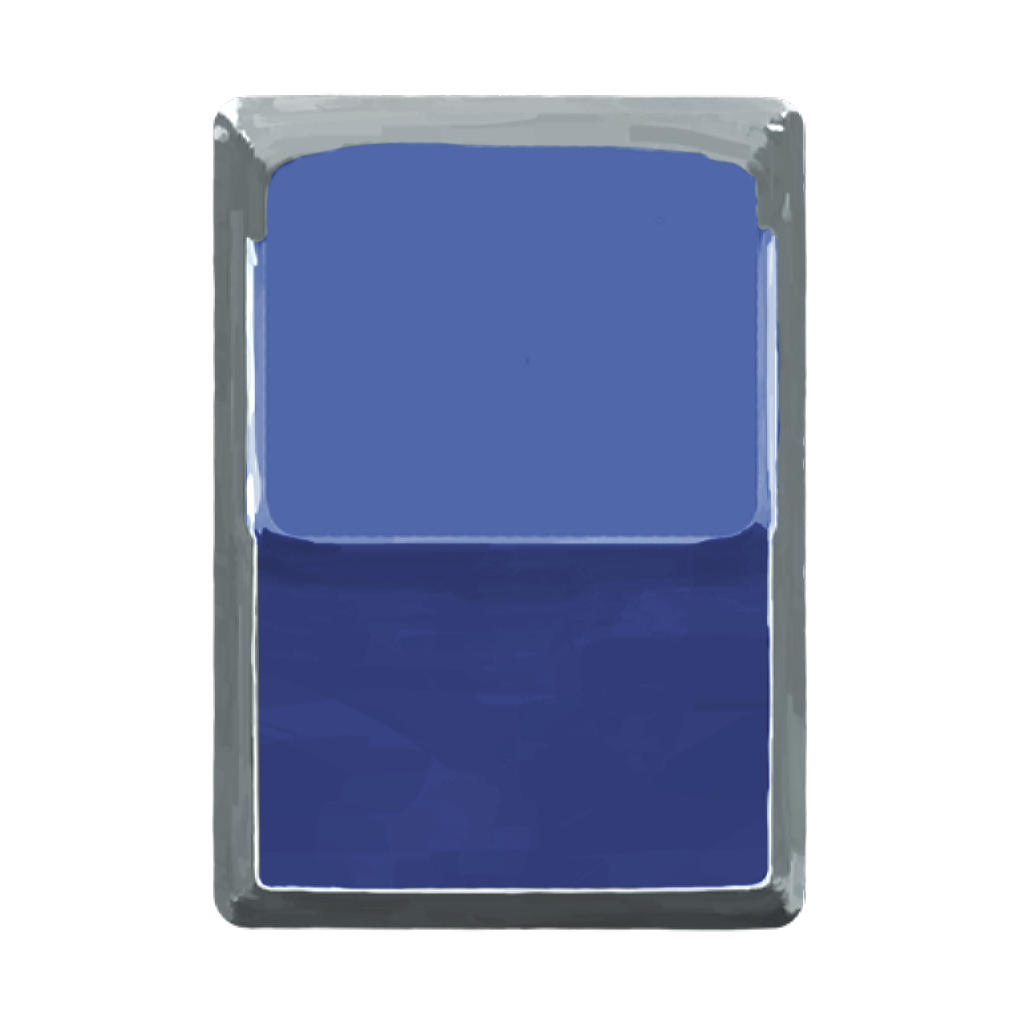
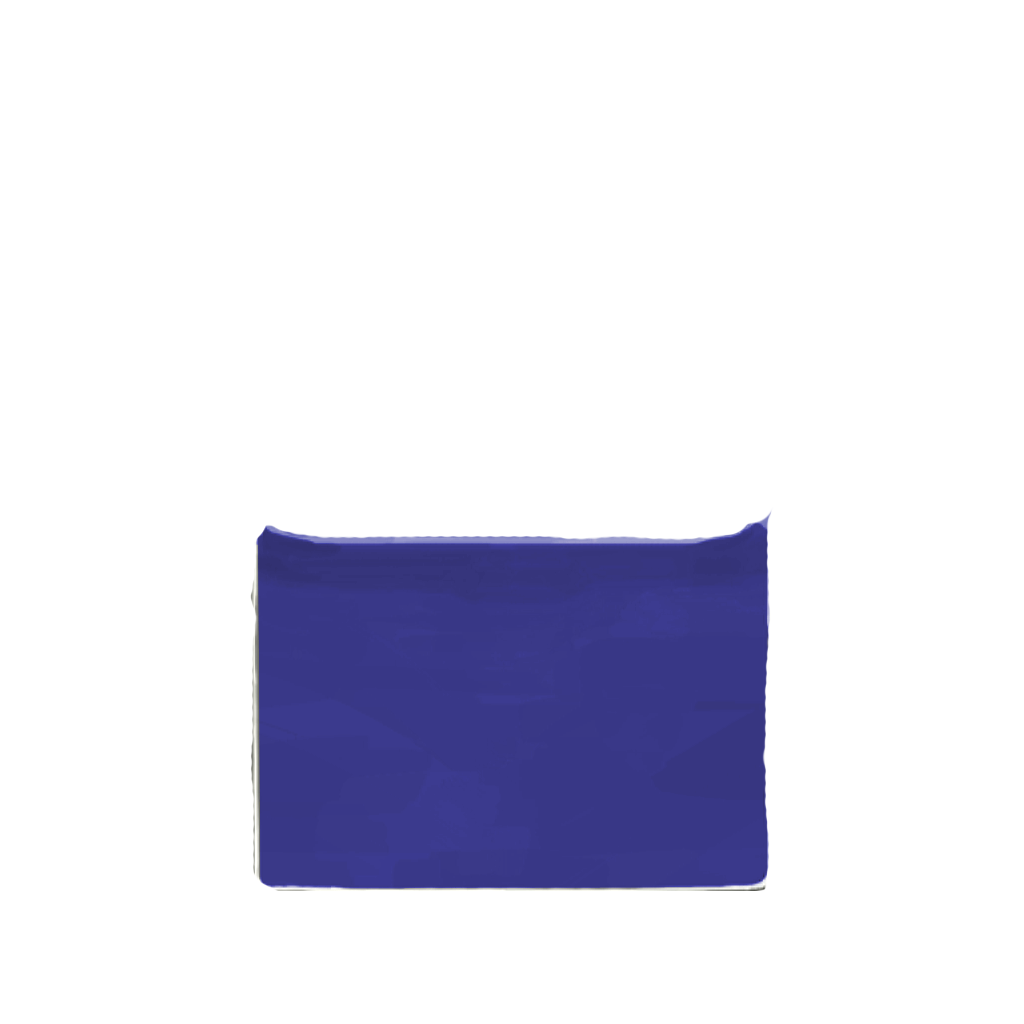
render cards patch

Changed region(s): [[0.1875, 0.0938, 0.8125, 0.9375]]

diff --git a/src/main/java/MisakaCode/patches/RenderMagneticCardBackgrounds.java b/src/main/java/MisakaCode/patches/RenderMagneticCardBackgrounds.java
@@ -1,0 +1,108 @@
+package MisakaCode.patches;
+
+import MisakaCode.MisakaModInitializer;
+import MisakaCode.tools.TextureLoader;
+import basemod.ReflectionHacks;
+import com.badlogic.gdx.graphics.Color;
+import com.badlogic.gdx.graphics.Texture;
+import com.badlogic.gdx.graphics.g2d.SpriteBatch;
+import com.evacipated.cardcrawl.modthespire.lib.SpirePatch;
+import com.megacrit.cardcrawl.cards.AbstractCard;
+import com.megacrit.cardcrawl.core.Settings;
+import com.megacrit.cardcrawl.screens.SingleCardViewPopup;
+
+public class RenderMagneticCardBackgrounds {
+    @SpirePatch(
+            clz= AbstractCard.class,
+            method="renderCardBg"
+    )
+    public static class SmallCardBackgroundRender {
+        public static void Postfix(AbstractCard __instance, SpriteBatch sb, float x, float y) {
+            Color reflectedColor = (Color) ReflectionHacks.getPrivate(__instance, AbstractCard.class, "renderColor");
+            boolean isPositive = MisakaModInitializer.isPositive(__instance);
+            boolean isNegative = MisakaModInitializer.isNegative(__instance);
+            if (isPositive) {
+                switch(__instance.type) {
+                    case ATTACK:
+                        Texture positiveAttack = TextureLoader.getTexture("MisakaResources/images/512/attack_red.png");
+                        sb.setColor(reflectedColor);
+                        sb.draw(positiveAttack, x, y, 256f, 256f, 512f, 512f, __instance.drawScale * Settings.scale, __instance.drawScale * Settings.scale, __instance.angle, 0, 0, 512, 512, false, false);
+                        break;
+                    case SKILL: case STATUS: case CURSE:
+                        Texture positiveSkill = TextureLoader.getTexture("MisakaResources/images/512/skill_red.png");
+                        sb.setColor(reflectedColor);
+                        sb.draw(positiveSkill, x, y, 256f, 256f, 512f, 512f, __instance.drawScale * Settings.scale, __instance.drawScale * Settings.scale, __instance.angle, 0, 0, 512, 512, false, false);
+                        break;
+                    case POWER:
+                        Texture positivePower = TextureLoader.getTexture("MisakaResources/images/512/power_red.png");
+                        sb.setColor(reflectedColor);
+                        sb.draw(positivePower, x, y, 256f, 256f, 512f, 512f, __instance.drawScale * Settings.scale, __instance.drawScale * Settings.scale, __instance.angle, 0, 0, 512, 512, false, false);
+                        break;
+                }
+            }
+            if (isNegative) {
+                switch(__instance.type) {
+                    case ATTACK:
+                        Texture negativeAttack = TextureLoader.getTexture("MisakaResources/images/512/attack_blue.png");
+                        sb.setColor(reflectedColor);
+                        sb.draw(negativeAttack, x, y, 256f, 256f, 512f, 512f, __instance.drawScale * Settings.scale, __instance.drawScale * Settings.scale, __instance.angle, 0, 0, 512, 512, false, false);
+                        break;
+                    case SKILL: case STATUS: case CURSE:
+                        Texture negativeSkill = TextureLoader.getTexture("MisakaResources/images/512/skill_blue.png");
+                        sb.setColor(reflectedColor);
+                        sb.draw(negativeSkill, x, y, 256f, 256f, 512f, 512f, __instance.drawScale * Settings.scale, __instance.drawScale * Settings.scale, __instance.angle, 0, 0, 512, 512, false, false);
+                        break;
+                    case POWER:
+                        Texture negativePower = TextureLoader.getTexture("MisakaResources/images/512/power_blue.png");
+                        sb.setColor(reflectedColor);
+                        sb.draw(negativePower, x, y, 256f, 256f, 512f, 512f, __instance.drawScale * Settings.scale, __instance.drawScale * Settings.scale, __instance.angle, 0, 0, 512, 512, false, false);
+                        break;
+                }
+            }
+        }
+    }
+
+    @SpirePatch(
+            clz = SingleCardViewPopup.class,
+            method = "renderCardBack"
+    )
+    public static class RenderBigCardBackground {
+        public static void Postfix(SingleCardViewPopup __instance, SpriteBatch sb) {
+            AbstractCard c = (AbstractCard) ReflectionHacks.getPrivate(__instance, SingleCardViewPopup.class, "card");
+            boolean isPositive = MisakaModInitializer.isPositive(c);
+            boolean isNegative = MisakaModInitializer.isNegative(c);
+            if (isPositive) {
+                switch(c.type) {
+                    case ATTACK:
+                        Texture positiveAttack = TextureLoader.getTexture("MisakaResources/images/1024/attack_red.png");
+                        sb.draw(positiveAttack, Settings.WIDTH / 2.0f - 512.0f, Settings.HEIGHT / 2.0f - 512.0f, 512.0f, 512.0f, 1024.0f, 1024.0f, Settings.scale, Settings.scale, 0.0f, 0, 0, 1024, 1024, false, false);
+                        break;
+                    case SKILL: case STATUS: case CURSE:
+                        Texture positiveSkill = TextureLoader.getTexture("MisakaResources/images/1024/skill_red.png");
+                        sb.draw(positiveSkill, Settings.WIDTH / 2.0f - 512.0f, Settings.HEIGHT / 2.0f - 512.0f, 512.0f, 512.0f, 1024.0f, 1024.0f, Settings.scale, Settings.scale, 0.0f, 0, 0, 1024, 1024, false, false);
+                        break;
+                    case POWER:
+                        Texture positivePower = TextureLoader.getTexture("MisakaResources/images/1024/power_red.png");
+                        sb.draw(positivePower, Settings.WIDTH / 2.0f - 512.0f, Settings.HEIGHT / 2.0f - 512.0f, 512.0f, 512.0f, 1024.0f, 1024.0f, Settings.scale, Settings.scale, 0.0f, 0, 0, 1024, 1024, false, false);
+                        break;
+                }
+            }
+            if (isNegative) {
+                switch(c.type) {
+                    case ATTACK:
+                        Texture negativeAttack = TextureLoader.getTexture("MisakaResources/images/1024/attack_blue.png");
+                        sb.draw(negativeAttack, Settings.WIDTH / 2.0f - 512.0f, Settings.HEIGHT / 2.0f - 512.0f, 512.0f, 512.0f, 1024.0f, 1024.0f, Settings.scale, Settings.scale, 0.0f, 0, 0, 1024, 1024, false, false);
+                        break;
+                    case SKILL: case STATUS: case CURSE:
+                        Texture negativeSkill = TextureLoader.getTexture("MisakaResources/images/1024/skill_blue.png");
+                        sb.draw(negativeSkill, Settings.WIDTH / 2.0f - 512.0f, Settings.HEIGHT / 2.0f - 512.0f, 512.0f, 512.0f, 1024.0f, 1024.0f, Settings.scale, Settings.scale, 0.0f, 0, 0, 1024, 1024, false, false);
+                        break;
+                    case POWER:
+                        Texture negativePower = TextureLoader.getTexture("MisakaResources/images/1024/power_blue.png");
+                        sb.draw(negativePower, Settings.WIDTH / 2.0f - 512.0f, Settings.HEIGHT / 2.0f - 512.0f, 512.0f, 512.0f, 1024.0f, 1024.0f, Settings.scale, Settings.scale, 0.0f, 0, 0, 1024, 1024, false, false);
+                        break;
+                }
+            }
+        }
+    }
+}

diff --git a/src/main/java/MisakaCode/MisakaModInitializer.java b/src/main/java/MisakaCode/MisakaModInitializer.java
@@ -3,6 +3,7 @@ package MisakaCode;
 import MisakaCode.cards.MisakaDynamicVariable;
 import MisakaCode.character.MisakaMikoto;
 import MisakaCode.patches.AbstractCardEnum;
+import MisakaCode.patches.MisakaCardTags;
 import MisakaCode.patches.MisakaMikotoEnum;
 import MisakaCode.tools.CardFilter;
 import MisakaCode.tools.CardIgnore;
@@ -135,4 +136,13 @@ public class MisakaModInitializer implements
             }
         }
     }
+
+    public static boolean isPositive(AbstractCard c) {
+        return c.hasTag(MisakaCardTags.isPositive);
+    }
+
+    public static boolean isNegative(AbstractCard c) {
+        return c.hasTag(MisakaCardTags.isNegative);
+    }
+
 }
